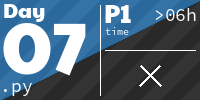
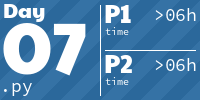
2025, day 8, part 1

diff --git a/ibidem/advent_of_code/y2025/test/test_dec08.py b/ibidem/advent_of_code/y2025/test/test_dec08.py
@@ -1,0 +1,70 @@
+import io
+import textwrap
+from collections import namedtuple
+from heapq import heappop, heapify
+
+import pytest
+from vectormath import Vector3Array, Vector3
+
+from ibidem.advent_of_code.y2025.dec08 import load, part1, part2, distances
+
+Case = namedtuple('Case', 'part1 part2 input')
+
+TEST_INPUTS = [
+    Case(40, 25272, io.StringIO(textwrap.dedent("""\
+        162,817,812
+        57,618,57
+        906,360,560
+        592,479,940
+        352,342,300
+        466,668,158
+        542,29,236
+        431,825,988
+        739,650,466
+        52,470,668
+        216,146,977
+        819,987,18
+        117,168,530
+        805,96,715
+        346,949,466
+        970,615,88
+        941,993,340
+        862,61,35
+        984,92,344
+        425,690,689
+    """))),
+]
+
+
+class TestDec08():
+    @pytest.fixture(params=TEST_INPUTS)
+    def case(self, request):
+        request.param.input.seek(0)
+        return request.param
+
+    @pytest.fixture
+    def loaded(self, case):
+        return load(case.input)
+
+    def test_load(self, loaded):
+        assert isinstance(loaded, Vector3Array)
+        assert len(loaded) == 20
+
+
+    def test_distances(self, loaded):
+        heap = distances(loaded, 10)
+        assert len(heap) == 10
+        heapify(heap)
+        min_distance, min_v1, min_v2 = heappop(heap)
+        expected_v1 = Vector3(162,817,812)
+        expected_v2 = Vector3(425,690,689)
+        assert (expected_v1 == min_v1).all()
+        assert (expected_v2 == min_v2).all()
+
+    def test_part1(self, loaded, case):
+        result = part1(loaded, 10)
+        assert result == case.part1
+        
+    def test_part2(self, loaded, case):
+        result = part2(loaded)
+        assert result == case.part2

diff --git a/ibidem/advent_of_code/y2025/dec08.py b/ibidem/advent_of_code/y2025/dec08.py
@@ -1,0 +1,60 @@
+#!/usr/bin/env python
+import itertools
+from heapq import heapify_max, heappush_max, heappushpop_max
+from math import prod
+
+from alive_progress import alive_it
+from vectormath import Vector3, Vector3Array
+
+from ibidem.advent_of_code.util import get_input_name
+
+
+def load(fobj):
+    vectors = []
+    for line in fobj:
+        line = line.strip()
+        x, y, z = (int(c) for c in line.split(","))
+        vectors.append(Vector3(x, y, z))
+    return Vector3Array(vectors)
+
+
+def distances(vectors, num_distances):
+    heap = []
+    heapify_max(heap)
+    count = 0
+    for v1, v2 in alive_it(itertools.combinations(vectors, 2)):
+        distance = Vector3(v1 - v2).length
+        entry = (distance, tuple(int(x) for x in v1), tuple(int(x) for x in v2))
+        if count < num_distances:
+            heappush_max(heap, entry)
+            count += 1
+        else:
+            heappushpop_max(heap, entry)
+    return heap
+
+
+def part1(vectors, num_distances=1000):
+    heap = distances(vectors, num_distances)
+    circuits = {}
+    for _d, v1, v2 in heap:
+        l1 = circuits.get(v1, {v1})
+        l2 = circuits.get(v2, {v2})
+        circuit = l1 | l2
+        for v in circuit:
+            circuits[v] = circuit
+    scv = sorted(set(tuple(v) for v in circuits.values()), key=len, reverse=True)
+    three_longest = itertools.islice(scv, 3)
+    return prod(len(c) for c in three_longest)
+
+
+def part2(input):
+    return None
+
+
+if __name__ == "__main__":
+    with open(get_input_name(8, 2025)) as fobj:
+        p1_result = part1(load(fobj))
+        print(f"Part 1: {p1_result}")
+    with open(get_input_name(8, 2025)) as fobj:
+        p2_result = part2(load(fobj))
+        print(f"Part 2: {p2_result}")

diff --git a/README.rst b/README.rst
@@ -44,7 +44,7 @@ To add a pre-commit hook that generates tiles, copy ``pre-commit`` to ``.git/hoo
 
 .. AOC TILES BEGIN - 2025
 
-2025 - 13 ⭐
+2025 - 15 ⭐
 .............
 
 .. image:: Media/2025/01.png
@@ -80,6 +80,11 @@ To add a pre-commit hook that generates tiles, copy ``pre-commit`` to ``.git/hoo
 .. image:: Media/2025/07.png
    :width: 161px
    :target: ibidem/advent_of_code/y2025/dec07.py
+
+
+.. image:: Media/2025/08.png
+   :width: 161px
+   :target: ibidem/advent_of_code/y2025/dec08.py
 
 .. AOC TILES END - 2025
 
